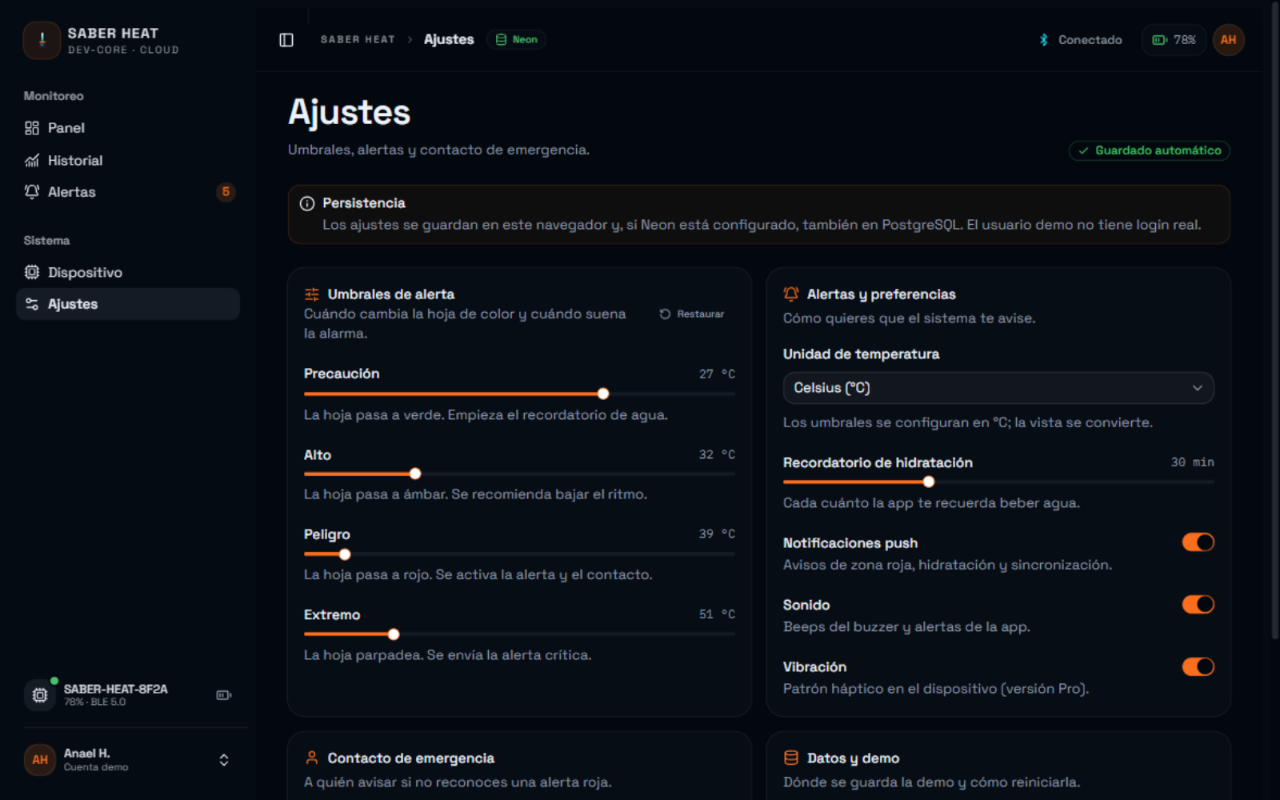
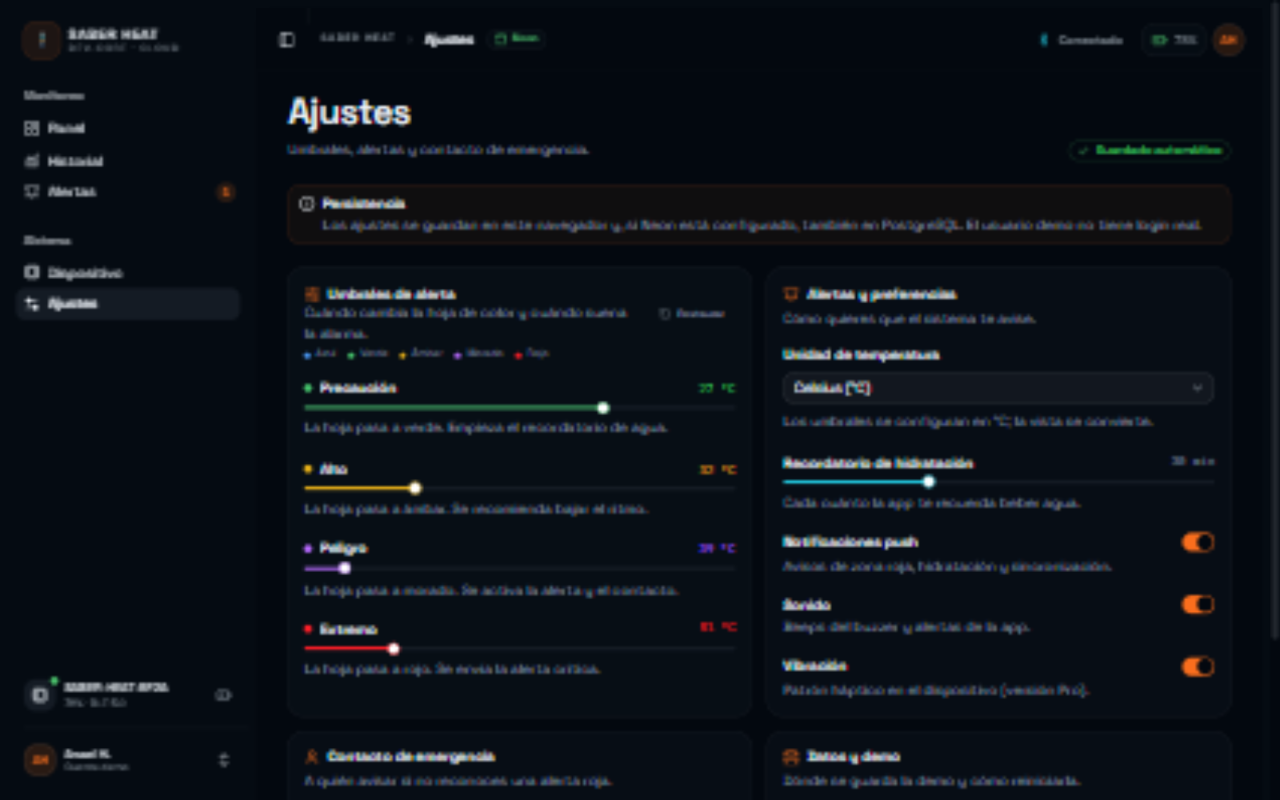
feat: nueva escala de colores azul-verde-ambar-morado-rojo
Aplica la paleta al sable, temperatura, alertas y umbrales; colorea los sliders y mantiene el color propio de cada alerta.

diff --git a/src/app/ajustes/page.tsx b/src/app/ajustes/page.tsx
@@ -1,5 +1,6 @@
 "use client";
 
+import type { CSSProperties } from "react";
 import {
   BellRing,
   Check,
@@ -52,9 +53,12 @@ import { Switch } from "@/components/ui/switch";
 import { Alert, AlertDescription, AlertTitle } from "@/components/ui/alert";
 import {
   DEFAULT_SETTINGS,
+  ZONES,
   type Thresholds,
   type Unit,
+  type Zone,
 } from "@/lib/saber-heat";
+import { cn } from "@/lib/utils";
 
 type ThresholdFieldProps = {
   label: string;
@@ -62,8 +66,17 @@ type ThresholdFieldProps = {
   value: number;
   min: number;
   max: number;
+  zone: Zone;
   onChange: (value: number) => void;
 };
+
+const ZONE_ORDER: Zone[] = [
+  "safe",
+  "caution",
+  "high",
+  "danger",
+  "extreme",
+];
 
 function ThresholdField({
   label,
@@ -71,13 +84,19 @@ function ThresholdField({
   value,
   min,
   max,
+  zone,
   onChange,
 }: ThresholdFieldProps) {
+  const meta = ZONES[zone];
+
   return (
     <Field>
       <div className="flex items-center justify-between gap-2">
-        <FieldLabel>{label}</FieldLabel>
-        <span className="font-mono text-xs text-muted-foreground">
+        <FieldLabel className="flex items-center gap-2">
+          <span className={cn("size-2 rounded-full", meta.dot)} />
+          {label}
+        </FieldLabel>
+        <span className="font-mono text-xs" style={{ color: meta.color }}>
           {value} °C
         </span>
       </div>
@@ -86,6 +105,8 @@ function ThresholdField({
         min={min}
         max={max}
         step={1}
+        className="[&_[data-slot=slider-range]]:bg-[var(--threshold-color)] [&_[data-slot=slider-thumb]]:border-[var(--threshold-color)]"
+        style={{ "--threshold-color": meta.color } as CSSProperties}
         onValueChange={(next) => {
           const nextValue = typeof next === "number" ? next : next[0];
           onChange(nextValue ?? value);
@@ -158,6 +179,16 @@ export default function SettingsPage() {
                 Restaurar
               </Button>
             </div>
+            <div className="flex flex-wrap items-center gap-x-3 gap-y-1.5 text-[10px] text-muted-foreground">
+              {ZONE_ORDER.map((zone) => (
+                <span key={zone} className="flex items-center gap-1.5">
+                  <span
+                    className={cn("size-1.5 rounded-full", ZONES[zone].dot)}
+                  />
+                  {ZONES[zone].short}
+                </span>
+              ))}
+            </div>
           </CardHeader>
           <CardContent>
             <FieldGroup>
@@ -167,6 +198,7 @@ export default function SettingsPage() {
                 value={settings.thresholds.caution}
                 min={20}
                 max={30}
+                zone="caution"
                 onChange={(value) => setThreshold("caution", value)}
               />
               <ThresholdField
@@ -175,22 +207,25 @@ export default function SettingsPage() {
                 value={settings.thresholds.high}
                 min={30}
                 max={38}
+                zone="high"
                 onChange={(value) => setThreshold("high", value)}
               />
               <ThresholdField
                 label="Peligro"
-                description="La hoja pasa a rojo. Se activa la alerta y el contacto."
+                description="La hoja pasa a morado. Se activa la alerta y el contacto."
                 value={settings.thresholds.danger}
                 min={38}
                 max={50}
+                zone="danger"
                 onChange={(value) => setThreshold("danger", value)}
               />
               <ThresholdField
                 label="Extremo"
-                description="La hoja parpadea. Se envía la alerta crítica."
+                description="La hoja pasa a rojo. Se envía la alerta crítica."
                 value={settings.thresholds.extreme}
                 min={50}
                 max={55}
+                zone="extreme"
                 onChange={(value) => setThreshold("extreme", value)}
               />
             </FieldGroup>
@@ -251,6 +286,7 @@ export default function SettingsPage() {
                   min={15}
                   max={60}
                   step={5}
+                  className="[&_[data-slot=slider-range]]:bg-chart-2 [&_[data-slot=slider-thumb]]:border-chart-2"
                   onValueChange={(value) => {
                     const nextValue =
                       typeof value === "number" ? value : value[0];

diff --git a/src/components/dashboard/zone-overview.tsx b/src/components/dashboard/zone-overview.tsx
@@ -12,6 +12,7 @@ import {
   formatTemp,
   formatTime,
   SCENARIOS,
+  ZONES,
 } from "@/lib/saber-heat";
 import { cn } from "@/lib/utils";
 
@@ -26,6 +27,7 @@ export function ZoneOverview() {
   } = useSaberHeat();
 
   const latest = alerts.find((alert) => !alert.acknowledged);
+  const latestZone = latest ? ZONES[latest.zone] : currentZone;
   const temperature =
     settings.unit === "f"
       ? (current.temperature * 9) / 5 + 32
@@ -112,15 +114,15 @@ export function ZoneOverview() {
               <div
                 className={cn(
                   "flex flex-col gap-3 rounded-2xl border p-4 sm:flex-row sm:items-center sm:justify-between",
-                  currentZone.bg,
-                  currentZone.border,
+                  latestZone.bg,
+                  latestZone.border,
                 )}
               >
                 <div className="flex items-start gap-3">
                   <span
                     className={cn(
                       "mt-1.5 size-2 shrink-0 rounded-full",
-                      currentZone.dot,
+                      latestZone.dot,
                     )}
                   />
                   <div className="min-w-0">

diff --git a/src/components/providers.tsx b/src/components/providers.tsx
@@ -19,6 +19,7 @@ import {
   createInitialAlerts,
   createInitialReadings,
   DEFAULT_SETTINGS,
+  getZone,
   INITIAL_DEVICE,
   nextReading,
   round1,
@@ -519,7 +520,7 @@ export function SaberHeatProvider({ children }: { children: React.ReactNode }) {
     });
 
     toast.error("Alerta extrema simulada", {
-      description: "La hoja se pondría en rojo intermitente.",
+      description: "La hoja se pondría en rojo.",
     });
   }, [device.battery, sync]);
 
@@ -560,7 +561,7 @@ export function SaberHeatProvider({ children }: { children: React.ReactNode }) {
           device.battery,
           0,
         );
-  const currentZone = ZONES[current.zone];
+  const currentZone = ZONES[getZone(current.heatIndex, settings.thresholds)];
   const unacknowledgedCount = alerts.filter(
     (alert) => !alert.acknowledged,
   ).length;

diff --git a/src/lib/saber-heat.ts b/src/lib/saber-heat.ts
@@ -101,7 +101,7 @@ export const ZONES: Record<Zone, ZoneMeta> = {
   },
   danger: {
     label: "Peligro",
-    short: "Rojo",
+    short: "Morado",
     description: "Riesgo importante",
     advice: "Detente, busca sombra, bebe agua y descansa 15 min.",
     color: "var(--zone-danger)",
@@ -112,7 +112,7 @@ export const ZONES: Record<Zone, ZoneMeta> = {
   },
   extreme: {
     label: "Extremo",
-    short: "Rojo intermitente",
+    short: "Rojo",
     description: "Riesgo extremo",
     advice: "Sombra, agua y ayuda. Si hay síntomas, llama al 911.",
     color: "var(--zone-extreme)",

diff --git a/src/app/globals.css b/src/app/globals.css
@@ -87,11 +87,11 @@
   --sidebar-accent-foreground: oklch(0.96 0.01 250);
   --sidebar-border: oklch(1 0 0 / 8%);
   --sidebar-ring: oklch(0.7 0.19 45);
-  --zone-safe: oklch(0.75 0.14 205);
-  --zone-caution: oklch(0.72 0.17 150);
-  --zone-high: oklch(0.78 0.16 80);
-  --zone-danger: oklch(0.64 0.24 25);
-  --zone-extreme: oklch(0.5 0.22 25);
+  --zone-safe: oklch(0.7 0.17 255);
+  --zone-caution: oklch(0.74 0.17 150);
+  --zone-high: oklch(0.8 0.16 85);
+  --zone-danger: oklch(0.68 0.22 305);
+  --zone-extreme: oklch(0.64 0.25 27);
 }
 
 @layer base {

diff --git a/src/components/blade-visual.tsx b/src/components/blade-visual.tsx
@@ -101,7 +101,7 @@ export function BladeVisual({ className, compact = false }: BladeVisualProps) {
         width="64"
         height="6"
         rx="3"
-        fill="#f97316"
+        fill="currentColor"
       />
 
       <rect

diff --git a/README.md b/README.md
@@ -13,7 +13,7 @@ App en vivo: [saber-heat-app.vercel.app](https://saber-heat-app.vercel.app)
 - **Panel** con el estado térmico, la acción pendiente y la hidratación. Sin tarjetas duplicadas ni métricas que ya viven en el header.
 - **Simulación en vivo** cada 3.5 s con cuatro escenarios: obra al sol, running, salón y casa.
 - **Cálculo del índice de calor** con la fórmula de Rothfusz y umbrales configurables.
-- **Sable animado** que cambia de color según la zona: azul, verde, ámbar, rojo y rojo intermitente.
+- **Sable animado** que cambia de color según la zona: azul, verde, ámbar, morado y rojo.
 - **Alertas** con reconocimiento, filtros y trazabilidad.
 - **Historial** de sesión y resumen de 7 días, con exportación a CSV.
 - **Dispositivo** con conexión, batería, señal, modo demo y escenario.
@@ -28,6 +28,8 @@ App en vivo: [saber-heat-app.vercel.app](https://saber-heat-app.vercel.app)
 ## Diseño
 
 La consola muestra solo lo que cambia una decisión: **temperatura y zona**, la **acción pendiente** y la **hidratación**. Todo lo demás vive en su propia página. Sin tarjetas de métricas repetidas, sin gráficas en el panel y sin datos que ya estén en el header.
+
+La escala de riesgo usa un color por nivel: **azul** (seguro), **verde** (precaución), **ámbar** (alto), **morado** (peligro) y **rojo** (extremo). El color se aplica al sable, la temperatura, las alertas y los umbrales de Ajustes.
 
 ## Stack
 
